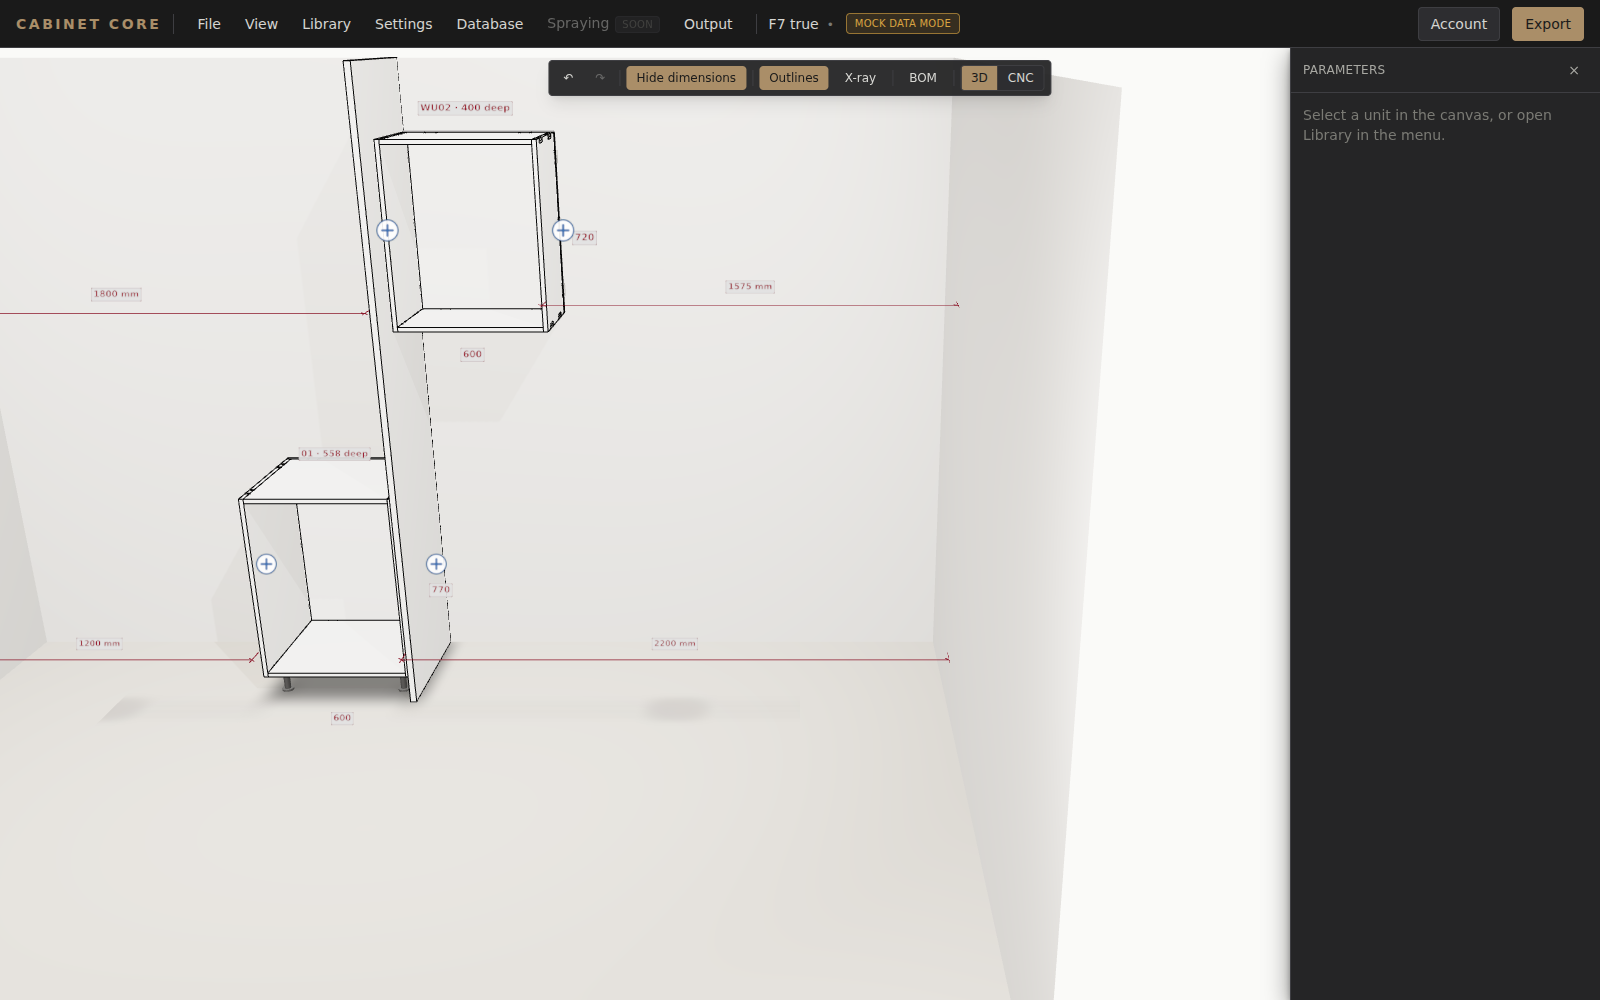
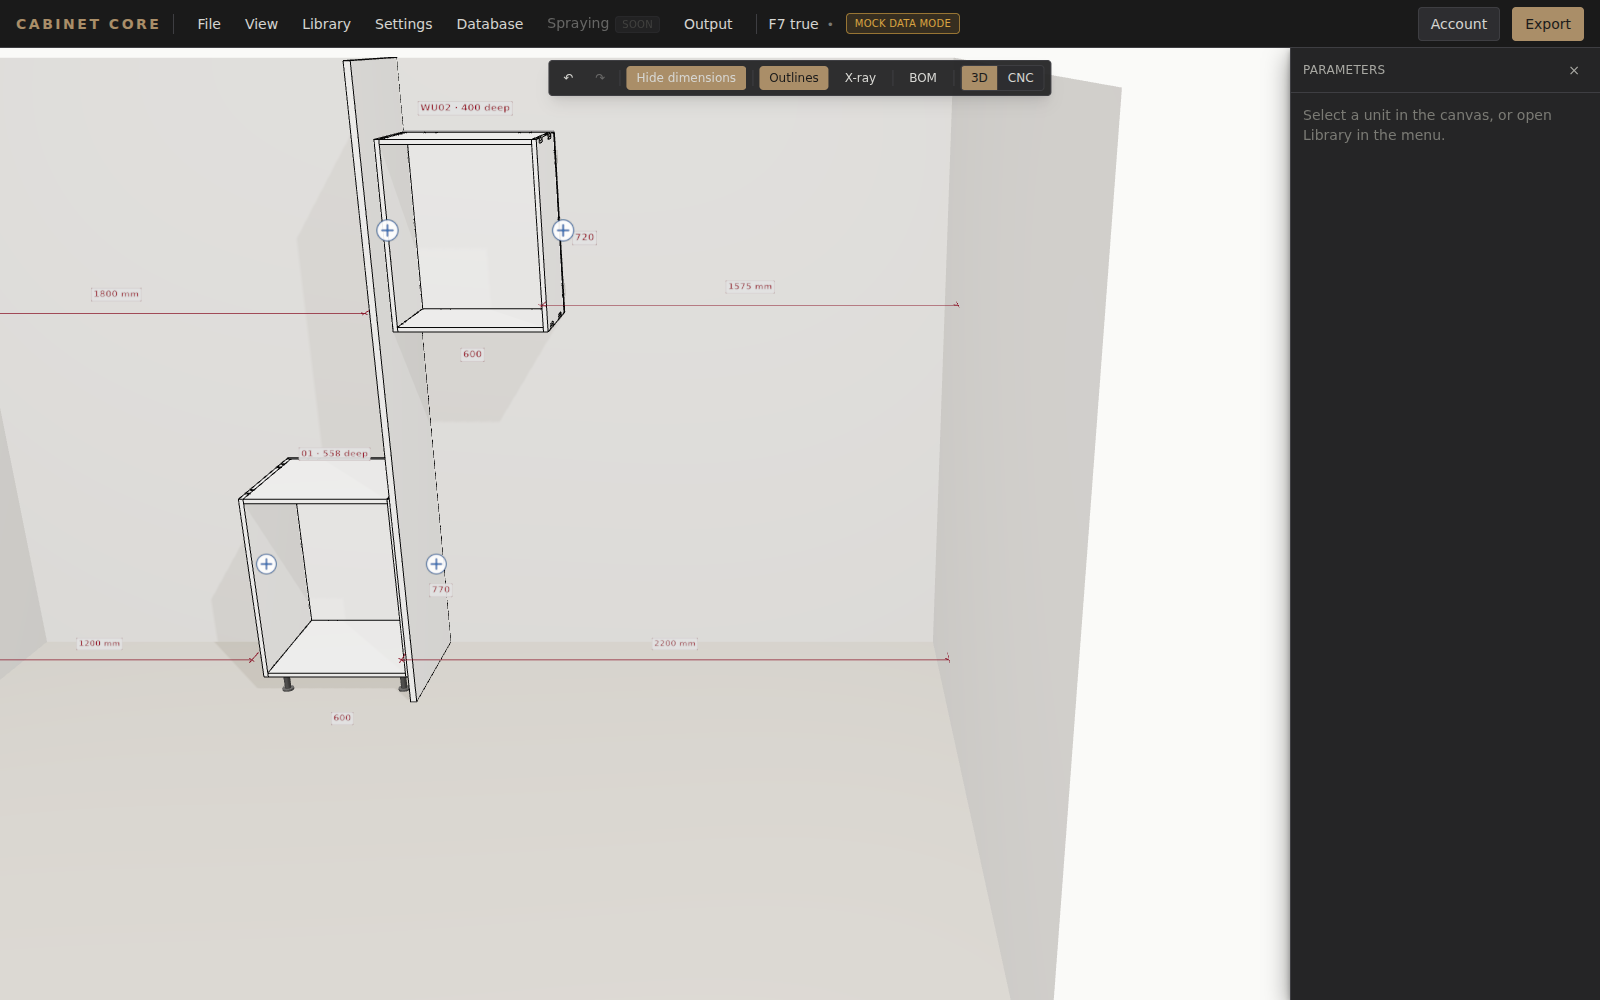
F3.2: the veneer picker says when the pictures are still coming
The list is OURS and arrives at once; only the thumbnails are fetched from
the decor pack. `ready` was tracked and then only used as a memo dependency,
which is a re-render dressed up as a filter — it says so now instead, which
is the difference between "loading" and "broken".

Claude-Session: https://claude.ai/code/session_01L3YpLACHxRbd8qP89ir1Aa

Changed region(s): [[0.6562, 0.155, 0.7188, 0.806], [0.1562, 0.651, 0.2812, 0.713], [0.4062, 0.062, 0.4688, 0.093]]

diff --git a/src/components/VeneerPicker.jsx b/src/components/VeneerPicker.jsx
@@ -36,7 +36,7 @@ export default function VeneerPicker({
   }, []);
 
   const veneers = getVeneers();
-  const shown = useMemo(() => filterVeneers(veneers, { query }), [veneers, query, ready]);
+  const shown = useMemo(() => filterVeneers(veneers, { query }), [veneers, query]);
 
   return (
     <div className="space-y-2" data-veneer-picker="1">
@@ -55,6 +55,9 @@ export default function VeneerPicker({
         )}
       </div>
 
+      {/* The LIST is ours and arrives at once; only the pictures are fetched.
+          Saying so is the difference between "loading" and "broken". */}
+      {!ready && <p className="text-[11px] text-ink-400">Loading the pictures…</p>}
       {shown.length === 0 && (
         <p className="text-[11px] text-ink-400 py-4">Nothing matches “{query}”.</p>
       )}
